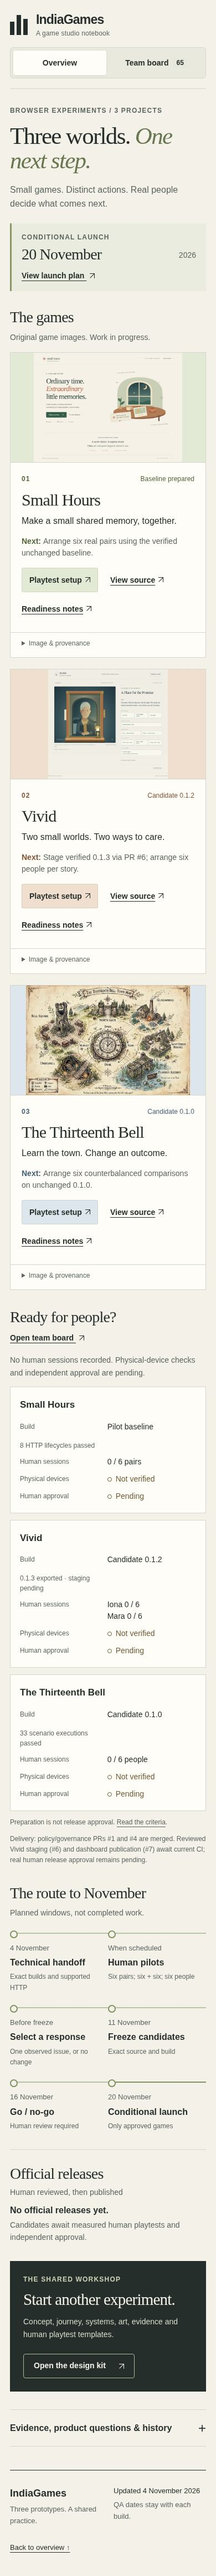
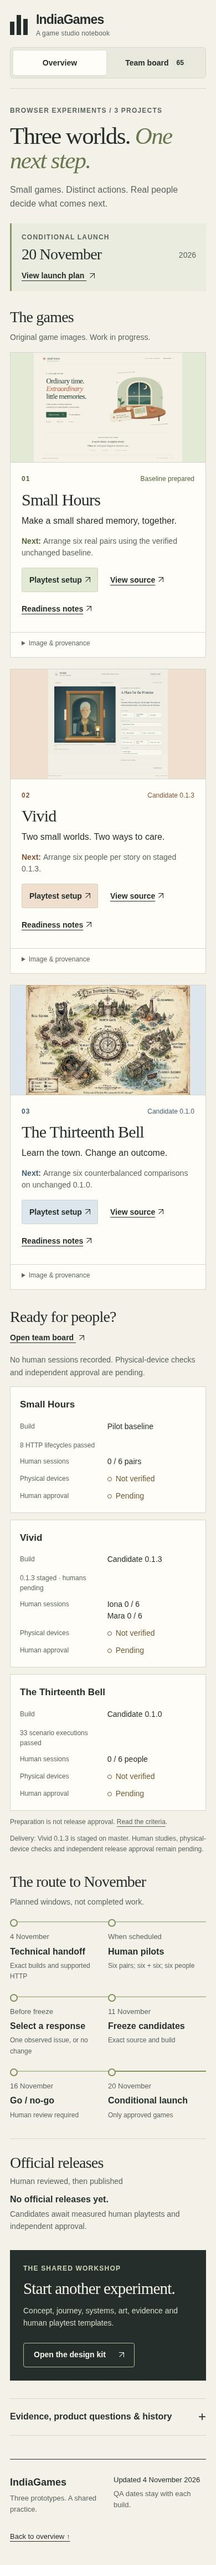
Bind dashboard and human setup to staged Vivid 0.1.3

diff --git a/scripts/sync-dashboard.py b/scripts/sync-dashboard.py
@@ -30,7 +30,7 @@ def build():
         document = launch.get('plan_document', '')
         if document != f"docs/launch/{launch['target_date_utc']}/README.md" or not (ROOT / document).is_file():
             raise ValueError('Missing launch plan document')
-        packet_pattern = r'https://github\.com/PaperStrange/IndiaGames/blob/[0-9a-f]{40}/docs/gamejam/launch-' + re.escape(launch['target_date_utc']) + r'/README\.md'
+        packet_pattern = r'https://github\.com/PaperStrange/IndiaGames/blob/[0-9a-f]{40}/docs/gamejam/(?:launch-' + re.escape(launch['target_date_utc']) + r'/README\.md|readiness-2026-11-04/HUMAN-HANDOFF\.md)'
         for lane, source in sources.items():
             if not re.fullmatch(packet_pattern, source.get('human_playtest_packet', '')):
                 raise ValueError(f'{lane}: missing pinned human playtest packet')

diff --git a/docs/iteration-2026-11-04/README.md b/docs/iteration-2026-11-04/README.md
@@ -16,12 +16,12 @@ The November 4 technical reports are published below. Their limited scopes, fail
 | Game | Actual result | Limits |
 |---|---|---|
 | [small-hours](https://github.com/PaperStrange/IndiaGames/blob/e94aa04273e581d1a27ade1988fe6d422b6111ec/docs/gamejam/readiness-2026-11-04/TECHNICAL-QA.md) | 4 November: 8 supported-HTTP lifecycle cases passed across root/nested mounts, 1280/390px and pair/rehearsal modes; actual SVG contents and replay/reset/reload checked, zero reported errors, frozen baseline unchanged. Keyboard/focus, blank/maximum-length details, timer expiry, physical devices and real pair experience were not tested in this pass. | Humans and physical devices pending |
-| [keepers-frame](https://github.com/PaperStrange/IndiaGames/blob/23d19663c78935e70307dca33acc8f1ce07bcf48/docs/gamejam/readiness-2026-11-04/TECHNICAL-QA.md) | 4 November: 20 distinct semantic cases functionally passed across retained attempts, with disclosed harness corrections and one aborted asset request followed by an error-free targeted retry; 8 layout cases and 51 unit tests passed, and two clean builds matched. Canonical Iona return placement and Mara interpretation were exercised. Neutral profile, migration/recovery, forced WebGL failure, physical devices and humans were not retested in this pass. Exported 0.1.3 awaits master staging. | Humans and physical devices pending |
+| [keepers-frame](https://github.com/PaperStrange/IndiaGames/blob/23d19663c78935e70307dca33acc8f1ce07bcf48/docs/gamejam/readiness-2026-11-04/TECHNICAL-QA.md) | 4 November: 20 distinct semantic cases functionally passed across retained attempts, with disclosed harness corrections and one aborted asset request followed by an error-free targeted retry; 8 layout cases and 51 unit tests passed, and two clean builds matched. Canonical Iona return placement and Mara interpretation were exercised. Neutral profile, migration/recovery, forced WebGL failure, physical devices and humans were not retested in this pass. The exact verified 0.1.3 artifact is staged on master; human validation remains pending. | Humans and physical devices pending |
 | [thirteenth-bell](https://github.com/PaperStrange/IndiaGames/blob/56eec3e7d96410492ad70bf39b5eb5ae003feec8/docs/gamejam/readiness-2026-11-04/TECHNICAL-QA.md) | 4 November: 33 scenario executions passed (16 root, 16 nested, one nested desktop ending/restart) on unchanged 0.1.0. Candidate resources had no failures. The frozen historical reference used fallback fonts after its optional Google Fonts certificate failure. Known-route and race-regression checks are not fresh-player comprehension, recall or physical-device evidence. | Humans and physical devices pending |
 
[2 lines of base64/hex data omitted]
 
-[Independent dashboard review](DASHBOARD-REVIEW.md) found no blocking issues. [Dashboard browser verification and previews](DASHBOARD-QA.md): 65 tasks, four mount/viewport journeys, tablet/enlarged text, navigation and retry passed. This verifies the integrated local site; live Pages publication remains pending.
+[Independent dashboard review](DASHBOARD-REVIEW.md) found no blocking issues. [Dashboard browser verification and previews](DASHBOARD-QA.md): 65 tasks, four mount/viewport journeys, tablet/enlarged text, navigation and retry passed. This verifies the integrated local site. At this premerge snapshot, live Pages verification was pending; see [PR #7](https://github.com/PaperStrange/IndiaGames/pull/7) for the subsequent deployed SHA and asset/hash checks.
 
 ## Current work board
 
@@ -30,7 +30,7 @@ Vivid runtime source: `813f264400bfc01d7e3e5f668de29bb835f5a70d`; exported 0.1.3
 | SH-20 | QA/tooling lead + Small Hours integrator | Supported HTTP, exact baseline, full pair and rehearsal paths, actual SVG contents, reset/reload and honest limitations |
 | KF-24 | QA/tooling lead + Vivid integrator | Both complete canonical story endpoints, saved-state/reload checks and root/nested serving |
 | KF-25 | Shared-control integrator + release integrator | Done: full-row helper, equivalent inputs and immutable 0.1.3 export; no story/save changes |
-| KF-26 | Release integrator + independent code reviewer | Open PR #6; merge and verify exact master identity before declaring staged |
+| KF-26 | Release integrator + independent code reviewer | Done: PR #6 merged; exact 0.1.3 inventory staged on master |
 | TB-19 | QA/tooling lead + Bell integrator | Visible controls and causal/state boundaries on unchanged 0.1.0; source-correct handoff |
 | [Issue #2](https://github.com/PaperStrange/IndiaGames/issues/2) | Repository administrator | Actual main/master protection and counted review enforcement; documentation or a merged PR alone is insufficient |
 | [Issue #5](https://github.com/PaperStrange/IndiaGames/issues/5) | QA/tooling lead | Reproducible supported HTTP route and committed reports; preserve the original managed-browser restriction |
@@ -53,7 +53,7 @@ The archived rescue and reveal frames do not establish Iona's final return place
 
 The bounded implementation target is the reproduced narrow shared alignment-helper column: let the helper span its grid row. Preserve Iona's reducer, consent, privacy/dedication and performed wedge placement, and Mara's open emotional interpretation. The player question is whether each action makes its consequence understandable. Narrative/art review should examine meaningful objects and causal memory; operator verification must reach the canonical endpoints over HTTP and reload the actual saved states. Research retains PhotoHacks' completed assignment without turning it into whole-game completion or removing earlier failures.
 
-[Reviewed archive](https://github.com/PaperStrange/IndiaGames/blob/b9e1560cc641691bc8d48b4254cab0bac73fe64c/docs/gamejam/competitor-plays-2026-10-28/README.md) · [Human packet](https://github.com/PaperStrange/IndiaGames/blob/b9e1560cc641691bc8d48b4254cab0bac73fe64c/docs/gamejam/launch-2026-11-20/README.md) · [Current game handoff](https://github.com/PaperStrange/IndiaGames/blob/23d19663c78935e70307dca33acc8f1ce07bcf48/docs/gamejam/readiness-2026-11-04/README.md) · [Current TODO](../games/keepers-frame/TODO.md)
+[Reviewed archive](https://github.com/PaperStrange/IndiaGames/blob/b9e1560cc641691bc8d48b4254cab0bac73fe64c/docs/gamejam/competitor-plays-2026-10-28/README.md) · [Human packet](https://github.com/PaperStrange/IndiaGames/blob/b9e1560cc641691bc8d48b4254cab0bac73fe64c/docs/gamejam/launch-2026-11-20/README.md) · [Current game handoff](https://github.com/PaperStrange/IndiaGames/blob/7ba944adac4f122d1a290f7a98a6fab2baf278d5/docs/gamejam/readiness-2026-11-04/README.md) · [Current TODO](../games/keepers-frame/TODO.md)
 
 <a id="bell"></a>
 ## The Thirteenth Bell
@@ -74,7 +74,7 @@ Release flow stays game branch → immutable master candidate → actual human e
 
 ## Dated code-review exception
 
-For the November 4 readiness and existing-PR batch only, the user authorized independent agent code review. Review findings must bind to an exact head and actual checks; integration records must state actual merges rather than fabricate GitHub approvals. The [independent review report](PR-REVIEW.md) is separate from game evaluation. Policy PR [#1](https://github.com/PaperStrange/IndiaGames/pull/1) merged at `7a26e07a71062766e357b51aece9cce8b00c9b17`; governance PR [#4](https://github.com/PaperStrange/IndiaGames/pull/4) merged at `e27a774b6bef95b7a48e4eeb910dce819e3082c9`. A cache-bypassing read confirmed #4 CI succeeded at 15:51:58 UTC; prior queued readings were stale. PR [#3](https://github.com/PaperStrange/IndiaGames/pull/3) was refreshed to `aa513ec621d5a47ecfc15330674a14aff146cc71`, whose entire tree matches the reviewed integration. Current-head CI for #3, candidate staging [#6](https://github.com/PaperStrange/IndiaGames/pull/6), and this dashboard [#7](https://github.com/PaperStrange/IndiaGames/pull/7) remains pending at the last read. This dashboard branch includes the reviewed #3/#4 ancestry; a passing combined integration may land without discarding that work. Actual master staging and live Pages publication still require verification.
+For the November 4 readiness and existing-PR batch only, the user authorized independent agent code review. Review findings must bind to an exact head and actual checks; integration records must state actual merges rather than fabricate GitHub approvals. The [independent review report](PR-REVIEW.md) is separate from game evaluation. Policy PR [#1](https://github.com/PaperStrange/IndiaGames/pull/1) merged at `7a26e07a71062766e357b51aece9cce8b00c9b17`; governance PR [#4](https://github.com/PaperStrange/IndiaGames/pull/4) merged at `e27a774b6bef95b7a48e4eeb910dce819e3082c9`. A cache-bypassing read confirmed #4 CI succeeded at 15:51:58 UTC; prior queued readings were stale. PR [#3](https://github.com/PaperStrange/IndiaGames/pull/3) merged at `c49eee9aa7fd818949b04348a861f0bb06afbc9c` after current CI success. Candidate staging [#6](https://github.com/PaperStrange/IndiaGames/pull/6) merged to master `2be5f3648fed5422eb4459486661385df73c91be`; the full merged packet matches the reviewed export. At this premerge snapshot, dashboard update [#7](https://github.com/PaperStrange/IndiaGames/pull/7) and live Pages verification were pending; its conversation holds subsequent publication evidence. A later cache-bypassing read established the successful checks; prior queued snapshots are preserved as observation history, not a current blocker.
 
 This is a dated execution exception. It does not weaken standing protection policy, lower a human game threshold, count agents as participants or authorize agent release approval. [Issue #2](issues.md) remains governed by actual settings evidence.
 

diff --git a/docs/games/keepers-frame/TODO.md b/docs/games/keepers-frame/TODO.md
@@ -2,9 +2,9 @@
 
 ## Current readiness handoff · 4 November 2026
 
-4 November: 20 distinct semantic cases functionally passed across retained attempts, with disclosed harness corrections and one aborted asset request followed by an error-free targeted retry; 8 layout cases and 51 unit tests passed, and two clean builds matched. Canonical Iona return placement and Mara interpretation were exercised. Neutral profile, migration/recovery, forced WebGL failure, physical devices and humans were not retested in this pass. Exported 0.1.3 awaits master staging.
+4 November: 20 distinct semantic cases functionally passed across retained attempts, with disclosed harness corrections and one aborted asset request followed by an error-free targeted retry; 8 layout cases and 51 unit tests passed, and two clean builds matched. Canonical Iona return placement and Mara interpretation were exercised. Neutral profile, migration/recovery, forced WebGL failure, physical devices and humans were not retested in this pass. The exact verified 0.1.3 artifact is staged on master; human validation remains pending.
 
-[Current game handoff](https://github.com/PaperStrange/IndiaGames/blob/23d19663c78935e70307dca33acc8f1ce07bcf48/docs/gamejam/readiness-2026-11-04/README.md) · [Technical report](https://github.com/PaperStrange/IndiaGames/blob/23d19663c78935e70307dca33acc8f1ce07bcf48/docs/gamejam/readiness-2026-11-04/TECHNICAL-QA.md) · [Blank human handoff](https://github.com/PaperStrange/IndiaGames/blob/23d19663c78935e70307dca33acc8f1ce07bcf48/docs/gamejam/readiness-2026-11-04/HUMAN-HANDOFF.md) · [Current task status](tasks.json) · [Issue dispositions](../../iteration-2026-11-04/issues.md)
+[Current game handoff](https://github.com/PaperStrange/IndiaGames/blob/7ba944adac4f122d1a290f7a98a6fab2baf278d5/docs/gamejam/readiness-2026-11-04/README.md) · [Technical report](https://github.com/PaperStrange/IndiaGames/blob/23d19663c78935e70307dca33acc8f1ce07bcf48/docs/gamejam/readiness-2026-11-04/TECHNICAL-QA.md) · [Blank human handoff](https://github.com/PaperStrange/IndiaGames/blob/7ba944adac4f122d1a290f7a98a6fab2baf278d5/docs/gamejam/readiness-2026-11-04/HUMAN-HANDOFF.md) · [Current task status](tasks.json) · [Issue dispositions](../../iteration-2026-11-04/issues.md)
 
 Required human studies, physical devices and independent approval remain pending. Historical completed IDs and evidence are preserved; dated follow-ups do not erase prior verification.
 
@@ -19,9 +19,9 @@ Dated supported-HTTP evidence and an exact-artifact human-study handoff for issu
 - Verify the reproduced Mara helper layout correction at desktop, narrow width and enlarged text with working keyboard alignment; record before/after geometry, screenshots and errors.
 - Preserve frozen 0.1.2; any changed game bytes use a new immutable candidate version. Publish evidence and blank human handoffs; do not convert agent completion into either six-person story cohort or physical-device approval.
 
-4 November: 20 distinct semantic cases functionally passed across retained attempts, with disclosed harness corrections and one aborted asset request followed by an error-free targeted retry; 8 layout cases and 51 unit tests passed, and two clean builds matched. Canonical Iona return placement and Mara interpretation were exercised. Neutral profile, migration/recovery, forced WebGL failure, physical devices and humans were not retested in this pass. Exported 0.1.3 awaits master staging. This closes technical handoff only; required human studies, devices and release approval remain pending.
+4 November: 20 distinct semantic cases functionally passed across retained attempts, with disclosed harness corrections and one aborted asset request followed by an error-free targeted retry; 8 layout cases and 51 unit tests passed, and two clean builds matched. Canonical Iona return placement and Mara interpretation were exercised. Neutral profile, migration/recovery, forced WebGL failure, physical devices and humans were not retested in this pass. The exact verified 0.1.3 artifact is staged on master; human validation remains pending. This closes technical handoff only; required human studies, devices and release approval remain pending.
 
-**Evidence:** [record 1](https://github.com/PaperStrange/IndiaGames/blob/23d19663c78935e70307dca33acc8f1ce07bcf48/docs/gamejam/readiness-2026-11-04/README.md) · [record 2](https://github.com/PaperStrange/IndiaGames/blob/23d19663c78935e70307dca33acc8f1ce07bcf48/docs/gamejam/readiness-2026-11-04/TECHNICAL-QA.md) · [record 3](https://github.com/PaperStrange/IndiaGames/blob/23d19663c78935e70307dca33acc8f1ce07bcf48/docs/gamejam/readiness-2026-11-04/technical-qa.json)
+**Evidence:** [record 1](https://github.com/PaperStrange/IndiaGames/blob/7ba944adac4f122d1a290f7a98a6fab2baf278d5/docs/gamejam/readiness-2026-11-04/README.md) · [record 2](https://github.com/PaperStrange/IndiaGames/blob/23d19663c78935e70307dca33acc8f1ce07bcf48/docs/gamejam/readiness-2026-11-04/TECHNICAL-QA.md) · [record 3](https://github.com/PaperStrange/IndiaGames/blob/23d19663c78935e70307dca33acc8f1ce07bcf48/docs/gamejam/readiness-2026-11-04/technical-qa.json)
 
 ### KF-25 · Give the alignment helper a full row and export an immutable candidate
 
@@ -34,13 +34,13 @@ The verified shared-grid correction, regression evidence and reproducible immuta
 - Run existing unit/build checks plus relevant browser regression, record exact source and inventory, export the new unused version with blank human reports, and hand it to a separately reviewed master staging PR. Actual staging is KF-26.
 - Keep six Iona plus six distinct Mara humans, physical-device checks and independent approval pending; no official release follows from this technical patch.
 
-Shared helper CSS correction verified:8 layout cases,51 unit tests and20 distinct semantic cases across disclosed attempts. Two clean builds match inventory 7498c636fee9b42298e4c9cde5ada0c8f688ef7835237e1e4761e269b68d3e00. Export complete; PR #6 master staging pending. No Iona consent/state-copy change.
+Shared helper CSS correction verified: 8 layout cases, 51 unit tests and 20 distinct semantic cases across disclosed attempts. Two clean builds match inventory 7498c636fee9b42298e4c9cde5ada0c8f688ef7835237e1e4761e269b68d3e00. Export complete; PR #6 master staging is complete; see KF-26. No Iona consent/state-copy change.
 
 **Evidence:** [record 1](https://github.com/PaperStrange/IndiaGames/commit/813f264400bfc01d7e3e5f668de29bb835f5a70d) · [record 2](https://github.com/PaperStrange/IndiaGames/blob/23d19663c78935e70307dca33acc8f1ce07bcf48/docs/gamejam/readiness-2026-11-04/TECHNICAL-QA.md) · [record 3](https://github.com/PaperStrange/IndiaGames/blob/23d19663c78935e70307dca33acc8f1ce07bcf48/docs/gamejam/readiness-2026-11-04/CANDIDATE-EXPORT.md) · [record 4](https://github.com/PaperStrange/IndiaGames/pull/6)
 
 ### KF-26 · Stage the verified 0.1.3 export through the reviewed master PR
 
-**Status:** `active` · **Owner:** Release integrator + independent code reviewer · **Priority:** P0
+**Status:** `done` · **Owner:** Release integrator + independent code reviewer · **Priority:** P0
 
 An immutable keepers-frame/0.1.3 candidate on master, with blank human reports and actual merge identity.
 
@@ -48,7 +48,9 @@ An immutable keepers-frame/0.1.3 candidate on master, with blank human reports a
 - Preserve existing 0.1.2 and verify all 15 files plus inventory 7498c636fee9b42298e4c9cde5ada0c8f688ef7835237e1e4761e269b68d3e00 on the merged master commit.
 - Record the actual master SHA and candidate manifest link before changing dashboard staging status. Human reports remain blank, approval false and official registry empty.
 
-PR #6 open at6ac31873f21159943801d5646c3ac37c0eba3e5a. Export and code review are not a master merge or official game release.
+PR #6 merged to master 2be5f3648fed5422eb4459486661385df73c91be. The merged packet matches the reviewed 15-file export and inventory 7498c636fee9b42298e4c9cde5ada0c8f688ef7835237e1e4761e269b68d3e00. Both human cohorts remain empty and approval remains false; no official release.
+
+**Evidence:** [merged PR #6](https://github.com/PaperStrange/IndiaGames/pull/6) · [candidate manifest](https://github.com/PaperStrange/IndiaGames/blob/2be5f3648fed5422eb4459486661385df73c91be/release-candidates/keepers-frame/0.1.3/candidate.json) · [story catalog](https://github.com/PaperStrange/IndiaGames/blob/2be5f3648fed5422eb4459486661385df73c91be/release-candidates/keepers-frame/0.1.3/build/story-catalog.json) · [empty human report](https://github.com/PaperStrange/IndiaGames/blob/2be5f3648fed5422eb4459486661385df73c91be/release-candidates/keepers-frame/0.1.3/human-playtest.json)
 
 <details>
 <summary>Archived October 28 coordination note</summary>

diff --git a/docs/launch/2026-11-20/README.md b/docs/launch/2026-11-20/README.md
@@ -11,16 +11,16 @@ Each owning game branch contains its own test list, blank human records, setup a
 | Game | Human test list, recording forms and next iteration | Frozen starting point | First unresolved question |
 |---|---|---|---|
[4 lines of base64/hex data omitted]
 
 For each game, the decision note must answer: **why did these people choose to continue or stop; what was clearer or different from the recorded competitors; which specific action and consequence did they remember?** Quote actual observations and contradictory cases. Competitor records and small formative cohorts do not establish market superiority, universal fun or retention. Keep incomplete comparator journeys explicitly incomplete.
 
 ## November 4 schedule correction
 
-The October 31–November 4 human pilots below did not occur. Technical readiness reports are published; candidate staging and human studies remain pending. Human studies will be arranged later. No facilitator, participant session, physical-device result or independent game approval is supplied by the agent batch. Reforecast each game after staffing. November 11 freeze, November 16 go/no-go and November 20 launch remain conditional cut lines; defer any game that cannot satisfy its unchanged gate in time.
+The October 31–November 4 human pilots below did not occur. Technical readiness reports are published; Vivid candidate staging is complete; human studies and independent approval remain pending. Human studies will be arranged later. No facilitator, participant session, physical-device result or independent game approval is supplied by the agent batch. Reforecast each game after staffing. November 11 freeze, November 16 go/no-go and November 20 launch remain conditional cut lines; defer any game that cannot satisfy its unchanged gate in time.
 
-Vivid's bounded shared alignment-helper correction and reproducible 0.1.3 export passed the published technical checks; [PR #6](https://github.com/PaperStrange/IndiaGames/pull/6) awaits master staging. The 0.1.2 archive remains immutable. Iona consent history and Mara interpretation rules are not rewritten from the historical critique. Bell receives no routine copy fix without human evidence unless a visible-control defect is reproduced. Small Hours keeps its baseline. See the [issue plan](../../iteration-2026-11-04/issues.md) for browser transport and protection dependencies.
+Vivid's bounded shared alignment-helper correction and reproducible 0.1.3 export passed the published technical checks; [PR #6](https://github.com/PaperStrange/IndiaGames/pull/6) merged to master `2be5f3648fed5422eb4459486661385df73c91be`. The 0.1.2 archive remains immutable. Iona consent history and Mara interpretation rules are not rewritten from the historical critique. Bell receives no routine copy fix without human evidence unless a visible-control defect is reproduced. Small Hours keeps its baseline. See the [issue plan](../../iteration-2026-11-04/issues.md) for browser transport and protection dependencies.
 
 ## Historical October 28 calendar and exit criteria
 
@@ -71,7 +71,7 @@ All require **zero open critical bugs**, truthful device support and an independ
 
 On 28 October the dashboard was verified live from **main/root**, with six served files matching deployed main `1dd2330`. Earlier reads showed master and the agent’s source-update PUT returned 403. The repository owner subsequently confirmed making the switch to main/root manually; the later read and deployment verify that owner-configured state. Read [PUBLISHING.md](../../PUBLISHING.md) for the full evidence. Verify the new official game URLs and deployment again at actual release; a live hub is not an approved game. Branch-protection enforcement is a separate dependency and must be observed, not inferred from workflow files.
 
-The release path stays **game branch → master candidate → measured human evidence → independently reviewed promotion PR → main**. Do not merge whole game branches or the whole staging queue. The release registry is empty until a game qualifies. Keep current candidate numbers (Vivid 0.1.2; Bell 0.1.0) if their exact bytes qualify; any revised build gets a new unused version. Small Hours receives its first candidate version only when its prerequisite decision and checks support staging. No future version number or tag is claimed as published here.
+The release path stays **game branch → master candidate → measured human evidence → independently reviewed promotion PR → main**. Do not merge whole game branches or the whole staging queue. The release registry is empty until a game qualifies. Keep current candidate numbers (Vivid 0.1.3; Bell 0.1.0) if their exact bytes qualify; any revised build gets a new unused version. Small Hours receives its first candidate version only when its prerequisite decision and checks support staging. No future version number or tag is claimed as published here.
 
 For every actual release, record: source SHA; approved master SHA; inventory hash; human protocol/session references and reviewer; supported devices/limits; official version; `releases/<game>/<version>/build/index.html`; `notes.md`; actual GitHub release URL; deployment revision and verification time. Follow [the release policy](../../RELEASE-POLICY.md) for the exact registry schema and validator commands.
 

diff --git a/docs/iteration-2026-11-04/DASHBOARD-REVIEW.md b/docs/iteration-2026-11-04/DASHBOARD-REVIEW.md
@@ -31,3 +31,32 @@ GitHub's current-head release-gate run `41865542962`, job `126698684951`, is que
 ## Status readback correction
 
 Later cache-bypassing exact-job reads establish PR #4 CI succeeded at 15:51:58 UTC and root merged #4 at `e27a774b6bef95b7a48e4eeb910dce819e3082c9`. The earlier dashboard queue text reflected stale API responses, so update it before treating that snapshot as current deployment status. PR #3 was refreshed to `aa513ec621d5a47ecfc15330674a14aff146cc71`; its entire tree is identical to the already reviewed integration base 9bc2934. This correction changes known integration status, not the tested browser content or human gate. Fresh direct-job reads for #6/#7 remain a separate requirement; do not infer that every queued response was stale.
+
+## Narrow factual status update review
+
+Reviewed the post-43eb6a6 correction to source-manifest/tasks and three iteration documents. Parsed JSON comparison proves all semantic changes are confined to `readiness`: corrected #4 merged/CI state, its immutable merge SHA and completion time, new #3 reviewed head, #7 pending status, delivery note and read timestamp. Unicode escape formatting is serialization only. All task objects, game source/candidate identities, human fields and other manifest values are unchanged; generated readiness exactly matches source readiness.
+
+The documentation retains the earlier observed stale readbacks while explicitly correcting their interpretation. No blocking findings. No repeated unit suite is warranted for these factual data/doc changes; the running browser verification must bind the two changed data input hashes to its new result and final PR head. If current fresh CI remains externally queued after all authorized preparation, save the exact restart checkpoint and wait rather than weakening the merge gate.
+
+## Final corrected PR #7 head
+
+Verified pushed remote/local head `064bed4130d394537b70d78c0b6c5f3e67a8b58e`, based on actual main `e27a774b6bef95b7a48e4eeb910dce819e3082c9`. Both refreshed #3 `aa513ec621d5a47ecfc15330674a14aff146cc71` and merged #4 main are ancestors. Relative to previously reviewed 43eb6a6, changes are exactly nine expected data/evidence/document files: two factual readiness data updates, three reviewed status documents, and four second-run QA artifacts. No unexpected runtime, task, release-policy or candidate changes.
+
[1 lines of base64/hex data omitted]
+
+A cache-bypassing read of the final head reports release-gate run `41866867976`, job `126703178265`, queued. Eligible for normal merge when this actual current-head check succeeds; no approval or release gate is bypassed. The root reports a controlled #6 cancellation request returned 409 and no retry started; do not describe that as a completed rerun. If fresh pending state persists, preserve checkpoint identities and resume only with verified checks.
+
+
+## Actual staging and integration status review
+
+Reviewed the eleven-path working diff against integration base `dad7a709bebf91f7537110940cd6c82960dbebb9` after PR #3 merged to main `c49eee9aa7fd818949b04348a861f0bb06afbc9c` and PR #6 merged to master `2be5f3648fed5422eb4459486661385df73c91be`. No blocking findings. The previous queued observations are retained history; they are not a current blocker once fresh exact-head checks establish success.
+
[1 lines of base64/hex data omitted]
+
+The Vivid current handoff commit `7ba944adac4f122d1a290f7a98a6fab2baf278d5` differs from the reviewed evidence commit `23d19663c78935e70307dca33acc8f1ce07bcf48` only in two handoff documents recording actual staging. Runtime remains the tested `813f264400bfc01d7e3e5f668de29bb835f5a70d`. Dashboard candidate manifest, catalog, report and current human handoff links resolve at their exact immutable commits. The original 0.1.2 artifact and prior human packet retain separately labeled historical identities.
+
+All 65 generated task objects still match authored per-game objects. Only KF-24/25 factual completion notes and KF-26 actual staging completion changed in this diff; unchanged acceptance criteria and uncompleted human tasks preserve the existing gate. The sync validator's one additional allowed packet path is the exact dated `readiness-2026-11-04/HUMAN-HANDOFF.md`; its fixed repository, full 40-character SHA and full-match requirement remain intact. Direct checks accept the intended old/current paths and reject a branch ref, a different repository and appended path content.
+
+Public data and documents now correctly distinguish staged 0.1.3 from human-approved publication. Pages metadata explicitly describes a premerge snapshot and points to PR #7 for subsequent deployment evidence. This change does not claim completed deployment or relax branch protection, human recruitment, device validation or release approval.
+
[1 lines of base64/hex data omitted]

diff --git a/docs/iteration-2026-11-04/DASHBOARD-QA.md b/docs/iteration-2026-11-04/DASHBOARD-QA.md
@@ -4,15 +4,17 @@
 
 | Execution identity | Value |
 | --- | --- |
-| UTC window | 2026-11-04 16:22:55–16:23:09 |
+| UTC window | 2026-11-04 16:40:01–16:40:14 |
 | Tested branch | `hub/readiness-2026-11-04` |
-| Ancestry commit | `e7da54fb810e48229917771f13ce6ac27f1596a4` plus the final readiness working-tree changes |
+| Ancestry commit | `dad7a709bebf91f7537110940cd6c82960dbebb9` plus the final readiness working-tree changes |
 | Exact bytes | Eleven runtime/data/test input SHA-256 values in [dashboard-qa.json](dashboard-qa.json); unchanged throughout the run |
 | Browser | Chromium 151.0.7922.173, installed Playwright 1.56.1, Linux managed cloud |
 | Transport | Same-host ephemeral HTTP; inherited proxy/TLS unchanged; no `file://` fallback |
 | Errors | Zero unexpected page errors, failed requests or HTTP error responses |
 
-This second run supersedes the first dashboard pass after a factual delivery-status correction: PR #4 was confirmed successful and merged, and current delivery metadata was refreshed. Only `data/source-manifest.json` and generated `data/tasks.json` changed among the eleven tested inputs. Run01 and its original handoff remain retained; the task count, UI code, human gates and candidate bytes did not change.
+The latest pass verifies the staged Vivid 0.1.3 packet, its new source/playtest links and completed staging task. Four checked inputs changed since run02: presentation data, source manifest, generated tasks and Vivid's authored tasks. App, index and stylesheet hashes remain unchanged. Runs01 and02 remain retained. Run03 stopped before any browser launch because the local `master` ref was stale; the coordinator synchronized it to `2be5f3648fed5422eb4459486661385df73c91be`. Run04 then passed the original, unchanged assertions. No assertion was weakened.
+
[1 lines of base64/hex data omitted]
 
 The ancestry commit alone is not the tested revision. The compact JSON records exact input hashes; the release coordinator should bind the eventual commit to those inputs before publishing. GitHub CI and deployment must still verify that published revision.
 
@@ -29,13 +31,13 @@ The ancestry commit alone is not the tested revision. The compact JSON records e
 | Readiness / release boundaries | Correct zero human denominators, pending devices/approval, empty official-release registry and conditional November 20 timeline |
 | Source / candidate identity | Reviewed game heads and verified runtime scopes match; master candidate trees and inventories equal pinned packets; human reports remain empty and unapproved |
 | Images | Three real game assets loaded and matched their pinned Git source bytes; 2,041,402 bytes total, below 4 MiB budget |
-| Destinations | 119 unique rendered destinations classified; local anchors/files and GitHub blob/tree source targets resolve; external/service destinations were recorded, not remotely fetched |
+| Destinations | 124 unique rendered destinations classified; local anchors/files and GitHub blob/tree source targets resolve; external/service destinations were recorded, not remotely fetched |
 
 ![Dashboard overview at 1440px](dashboard-overview-1440.jpg)
 
 [View the 390px project-mount overview](dashboard-overview-390.jpg)
 
-The desktop and narrow overview screenshots were visually inspected: all three original game images render, readiness values and candidate labels remain readable, and the timeline/release boundary is visible. The overview contains 384 visible words on desktop and 381 on narrow screens; task detail remains in the separate board. This is a technical/presentation observation, not a human usability study.
+The desktop and narrow overview screenshots were visually inspected: all three original game images render, readiness values and candidate labels remain readable, and the timeline/release boundary is visible. The overview contains 373 visible words on desktop and 370 on narrow screens; task detail remains in the separate board. This is a technical/presentation observation, not a human usability study.
 
 ## Reproduce
 
@@ -47,4 +49,4 @@ PLAYWRIGHT_MODULE=/workspace/IndiaGames/vivid-2.5d-photo-game/play/node_modules/
 
 `PLAYWRIGHT_MODULE` can point to another installed module; `CHROMIUM_PATH` defaults to `/usr/bin/chromium`. The runner starts and stops its own same-host server, validates Git/source inventories before browsing, and records failed attempts rather than changing policy or falling back to another transport. No tracked files were changed by QA. Browser and server were closed in `finally`.
 
-Detailed output and ten screenshots remain at `/workspace/indiagames-readiness-2026-11-04/qa/dashboard-final-02/` (a retained workspace path, not a public link). The compact JSON includes the full external report's hash. No live Pages request, paused candidate-URL repair, game regression, physical-device session or human approval is implied by this dashboard pass. Test coverage includes the specific filter/search/deep-link cases above, not every possible combination or a full screen-reader audit.
+Detailed output and ten screenshots remain at `/workspace/indiagames-readiness-2026-11-04/qa/dashboard-final-04/` (a retained workspace path, not a public link). The compact JSON includes the full external report's hash. No live Pages request, paused candidate-URL repair, game regression, physical-device session or human approval is implied by this dashboard pass. Test coverage includes the specific filter/search/deep-link cases above, not every possible combination or a full screen-reader audit.

diff --git a/README.md b/README.md
@@ -7,12 +7,12 @@ The **Overview** combines real game images, playtest readiness and the November 
 | Game | Experience being tested | Current artifact | Human work still required |
 |---|---|---|---|
 | **Small Hours** · Memorable Moments | Two people make a brief shared activity their own. | Unchanged baseline; not staged on master | Six pairs |
-| **Vivid** · formerly Keeper’s Frame | Two stories express meaning through different actions. | 0.1.2 preserved; verified 0.1.3 export awaits [staging PR #6](https://github.com/PaperStrange/IndiaGames/pull/6) | Six people per story, in separate cohorts |
+| **Vivid** · formerly Keeper’s Frame | Two stories express meaning through different actions. | Candidate 0.1.3 staged on master; 0.1.2 preserved | Six people per story, in separate cohorts |
 | **The Thirteenth Bell** | Understanding a repeated event enables a meaningful intervention. | Candidate 0.1.0: Mina’s route | Six people, balanced comparison order |
 
 [Per-game checklists, recording templates and launch plans](docs/launch/2026-11-20/README.md#game-packets) include exact-artifact setup. GitHub source links open repository files; they are not browser play buttons. Repair of the older candidate Pages URL is paused at the owner’s request.
 
-[November 4 readiness handoff](docs/iteration-2026-11-04/README.md) separates current evidence adjudication, published supported HTTP checks and human studies arranged later. Vivid 0.1.3 is exported; actual master staging is still pending. [Issue dispositions](docs/iteration-2026-11-04/issues.md) retain the protection and original managed-browser limitations.
+[November 4 readiness handoff](docs/iteration-2026-11-04/README.md) separates current evidence adjudication, published supported HTTP checks and human studies arranged later. Vivid 0.1.3 is staged on master; human approval and official publication remain pending. [Issue dispositions](docs/iteration-2026-11-04/issues.md) retain the protection and original managed-browser limitations.
 
 ## November 20 target
 

diff --git a/docs/iteration-2026-11-04/HTTP-SETUP.md b/docs/iteration-2026-11-04/HTTP-SETUP.md
@@ -40,7 +40,7 @@ This dated exporter intentionally freezes **0.1.2**, inventory `e768b0fc12e34d1c
 
 ## Current Vivid 0.1.3 export
 
[2 lines of base64/hex data omitted]
 
 ## Run the checked-in Vivid layout regression
 

diff --git a/docs/iteration-2026-11-04/PR-REVIEW.md b/docs/iteration-2026-11-04/PR-REVIEW.md
@@ -116,3 +116,8 @@ A later cache-bypassing read (`Cache-Control: no-cache` plus unique query) of th
 ## PR #3 refreshed after #4 merge
 
 New #3 head `aa513ec621d5a47ecfc15330674a14aff146cc71` has parents exactly the previously reviewed `39a8ebf51e65f82865dafeffaad872b8d52b9ab6` and merged main `e27a774b6bef95b7a48e4eeb910dce819e3082c9`. Its complete remote tree `f62357c104b47907a7c858a9f108223040da2fa4` equals local independently reviewed #1 + #4 + #3 integration `9bc2934c2550a4bd0699e5ee690c19e3bac438e9` exactly. No content change, no new finding. The cache-bypassing current-head read reports release-gate queued at run `41866071797`, job `126700484966`. Code review remains satisfied; normal merge awaits actual successful current-head CI. Preserve future observations with explicit freshness and exact job identity.
+
+
+## Actual PR #3 / #6 merge readback
+
+Root confirmed successful current-head checks using fresh uniquely named GraphQL queries and normal merges: PR #3 into main `c49eee9aa7fd818949b04348a861f0bb06afbc9c`; PR #6 into master `2be5f3648fed5422eb4459486661385df73c91be`. Independently verified master has the same complete tree as reviewed candidate head `6ac31873f21159943801d5646c3ac37c0eba3e5a`, recomputed all 15 build hashes (1,401,316 bytes), confirmed old 0.1.2 remains unchanged and human reports remain empty with approval false. Staging is complete; official game release is not approved. Earlier queued snapshots remain observation history rather than current status. No review or human gate was bypassed.
